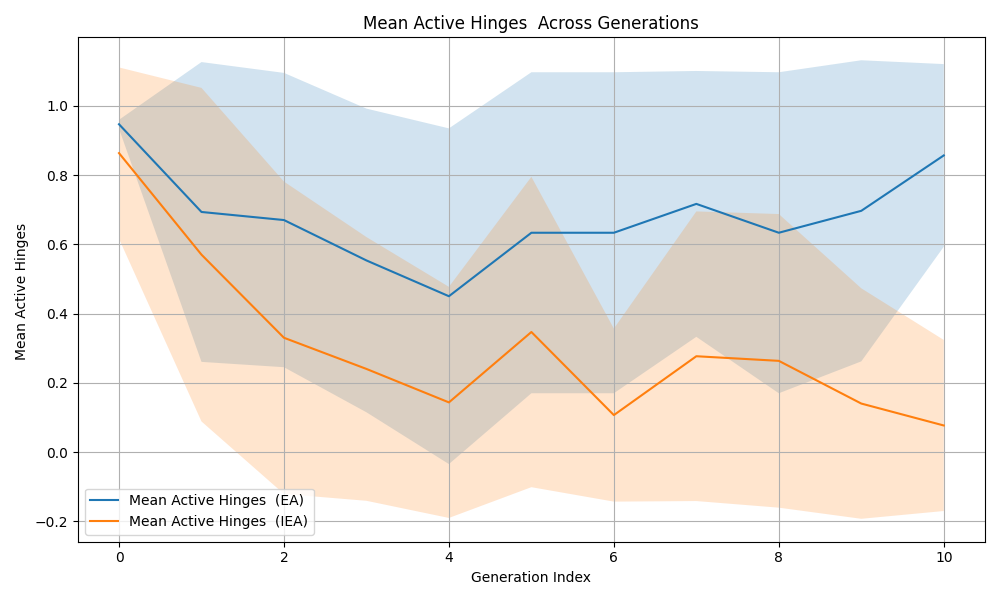
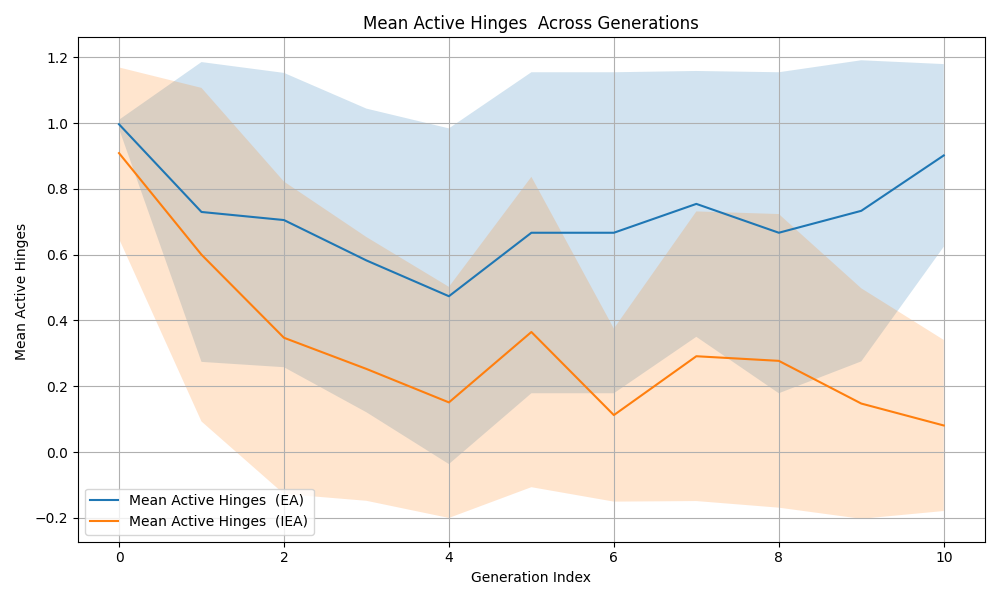
Fixed some plots that had wrong calculation

diff --git a/vr/db/compute_morph_descriptors.py b/vr/db/compute_morph_descriptors.py
@@ -128,7 +128,8 @@ def main():
     labels = ["IEA", "EA"]
     # I'm using num_modules instead of size bc they look the same except size is
     # a ratio from 0 to 1 whereas num_modules is 1-20
-    measure_names = ["active_hinges_ratio", "bricks_ratio"]
+    measure_names = ["branching", "limbs", "length_of_limbs", "coverage", "symmetry", "size", "num_modules", 
+                     "core_only", "mixed", "active_hinges_ratio", "bricks_ratio"]
     #start_id = 34
     #end_id = 66
     folders = ["maximize_size", "passive_hinge_combo", "maximize_passive_bricks", "less_than_10_modules"]

diff --git a/ci_group/revolve2/ci_group/morphological_measures.py b/ci_group/revolve2/ci_group/morphological_measures.py
@@ -648,9 +648,9 @@ class MorphologicalMeasures(Generic[TModule]):
     
     @property
     def active_hinges_ratio(self) -> float:
-        return self.num_active_hinges/20
+        return self.num_active_hinges/19
     
     @property
     def bricks_ratio(self) -> float:
-        return self.num_bricks/20
+        return self.num_bricks/19
     
